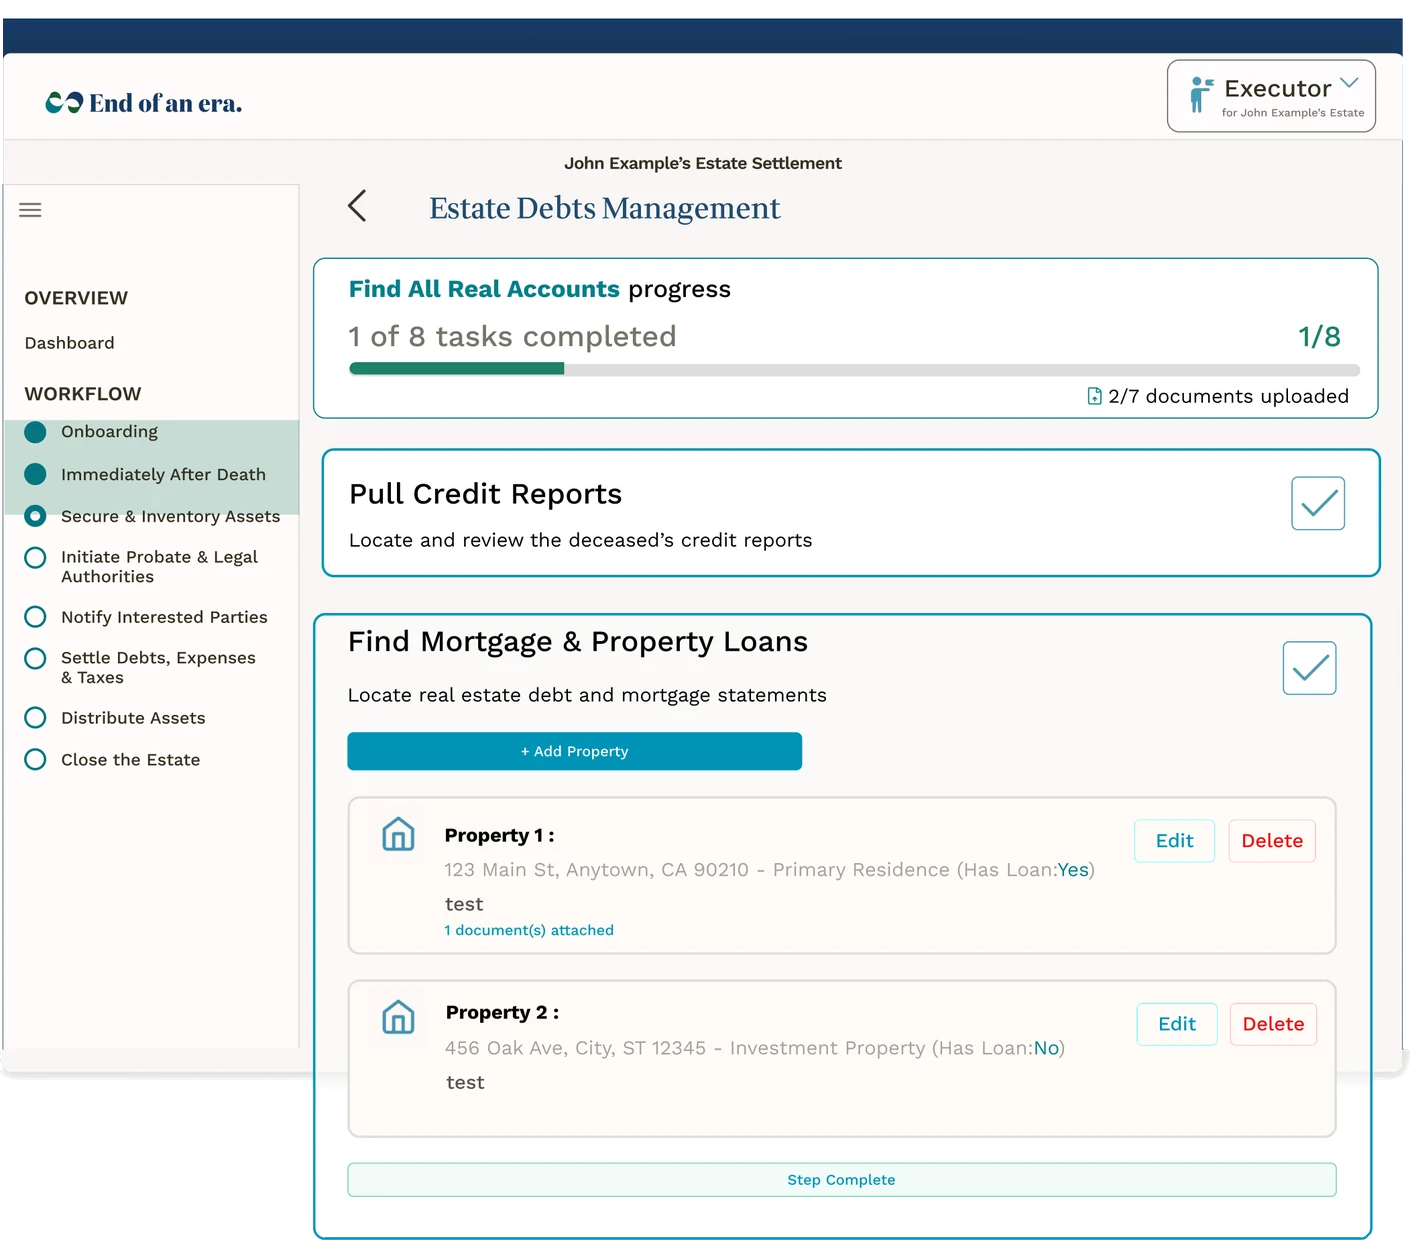
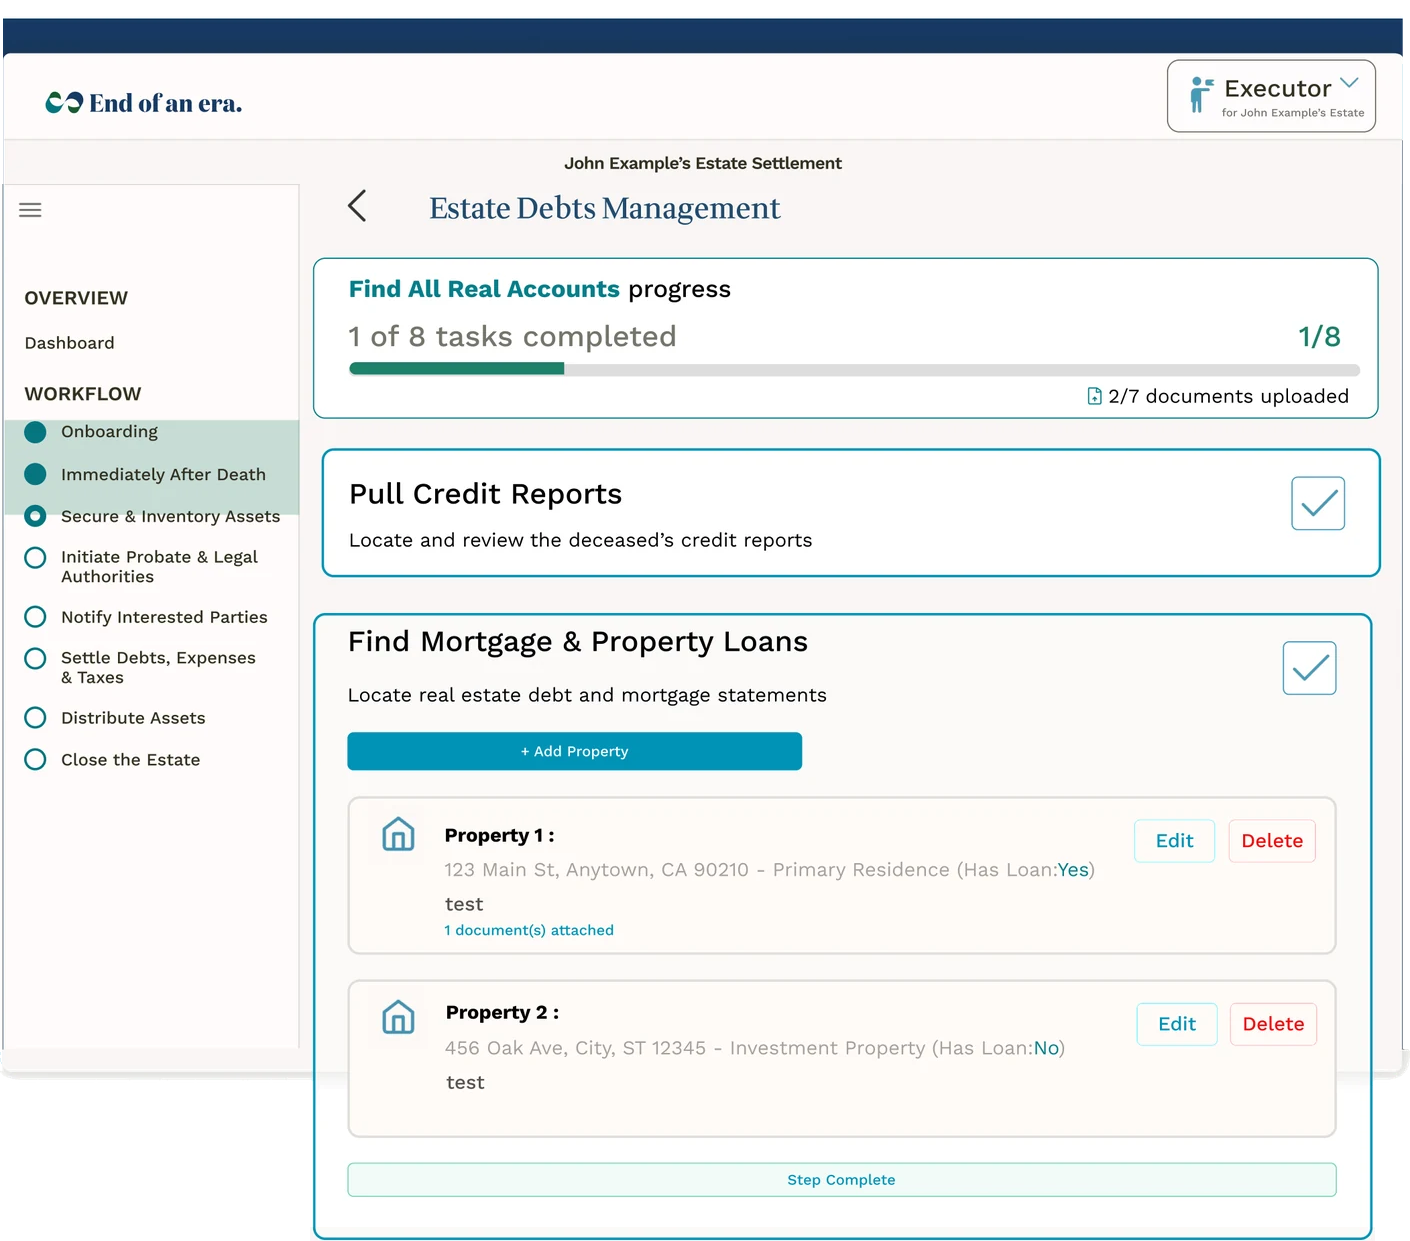
End of an Era: card bottom borders cut thin by the export restored to full thickness

diff --git a/app/work/end-of-an-era/frames.ts b/app/work/end-of-an-era/frames.ts
@@ -1,10 +1,10 @@
 // Generated from the Figma frame PDFs: image size and the app-window box inside each cut-out.
 export const FRAMES = {
-  "find-planner-1": { w: 1409, h: 1712, win: [3, 0, 1400, 1014] },
+  "find-planner-1": { w: 1409, h: 1714, win: [3, 0, 1400, 1014] },
   "find-planner-2": { w: 1408, h: 1085, win: [3, 0, 1400, 1015] },
   "find-planner-3": { w: 1408, h: 1027, win: [3, 0, 1400, 1015] },
   "find-planner-4": { w: 1408, h: 1258, win: [3, 0, 1400, 1015] },
-  "find-noplanner-1": { w: 1409, h: 1712, win: [3, 0, 1400, 1014] },
+  "find-noplanner-1": { w: 1409, h: 1714, win: [3, 0, 1400, 1014] },
   "find-noplanner-2": { w: 1408, h: 1024, win: [3, 0, 1400, 1015] },
   "find-noplanner-3": { w: 1408, h: 1027, win: [3, 0, 1400, 1015] },
   "find-noplanner-4": { w: 1408, h: 1067, win: [3, 0, 1400, 1015] },
@@ -36,23 +36,23 @@ export const FRAMES = {
   "personal-noplanner-3": { w: 1408, h: 1024, win: [3, 0, 1400, 1015] },
   "business-noplanner-1": { w: 1427, h: 1356, win: [7, 0, 1400, 1029] },
   "business-noplanner-2": { w: 1403, h: 2020, win: [3, 0, 1400, 1015] },
-  "liab-planner-1": { w: 1414, h: 1732, win: [7, 0, 1400, 959] },
+  "liab-planner-1": { w: 1414, h: 1734, win: [7, 0, 1400, 959] },
   "liab-planner-2": { w: 1415, h: 1102, win: [5, 0, 1400, 1021] },
   "liab-planner-3": { w: 1408, h: 1027, win: [3, 0, 1400, 1015] },
-  "liab-planner-4": { w: 1417, h: 2042, win: [8, 0, 1400, 1053] },
-  "liab-planner-5": { w: 1410, h: 1240, win: [3, 0, 1400, 1071] },
-  "liab-planner-6": { w: 1411, h: 2292, win: [4, 0, 1400, 1050] },
-  "liab-planner-7": { w: 1410, h: 1387, win: [3, 0, 1400, 1071] },
+  "liab-planner-4": { w: 1417, h: 2071, win: [8, 0, 1400, 1053] },
+  "liab-planner-5": { w: 1410, h: 1241, win: [3, 0, 1400, 1071] },
+  "liab-planner-6": { w: 1411, h: 2295, win: [4, 0, 1400, 1050] },
+  "liab-planner-7": { w: 1410, h: 1389, win: [3, 0, 1400, 1071] },
   "liab-planner-8": { w: 1402, h: 1058, win: [0, 0, 1400, 1048] },
   "liab-planner-9": { w: 1408, h: 1029, win: [3, 0, 1400, 1015] },
-  "liab-noplanner-1": { w: 1414, h: 1732, win: [7, 0, 1400, 959] },
+  "liab-noplanner-1": { w: 1414, h: 1734, win: [7, 0, 1400, 959] },
   "liab-noplanner-2": { w: 1415, h: 1029, win: [5, 0, 1400, 1021] },
   "liab-noplanner-3": { w: 1408, h: 1027, win: [3, 0, 1400, 1015] },
   "liab-noplanner-4": { w: 1415, h: 1102, win: [5, 0, 1400, 1021] },
-  "liab-noplanner-5": { w: 1410, h: 1240, win: [3, 0, 1400, 1071] },
-  "liab-noplanner-6": { w: 1417, h: 2042, win: [8, 0, 1400, 1053] },
-  "liab-noplanner-7": { w: 1411, h: 2292, win: [4, 0, 1400, 1050] },
-  "liab-noplanner-8": { w: 1410, h: 1387, win: [3, 0, 1400, 1071] },
+  "liab-noplanner-5": { w: 1410, h: 1241, win: [3, 0, 1400, 1071] },
+  "liab-noplanner-6": { w: 1417, h: 2071, win: [8, 0, 1400, 1053] },
+  "liab-noplanner-7": { w: 1411, h: 2295, win: [4, 0, 1400, 1050] },
+  "liab-noplanner-8": { w: 1410, h: 1389, win: [3, 0, 1400, 1071] },
   "liab-noplanner-9": { w: 1402, h: 1058, win: [0, 0, 1400, 1048] },
   "liab-noplanner-10": { w: 1408, h: 1024, win: [3, 0, 1400, 1015] },
 } as const satisfies Record<string, { w: number; h: number; win: readonly [number, number, number, number] | null }>;
